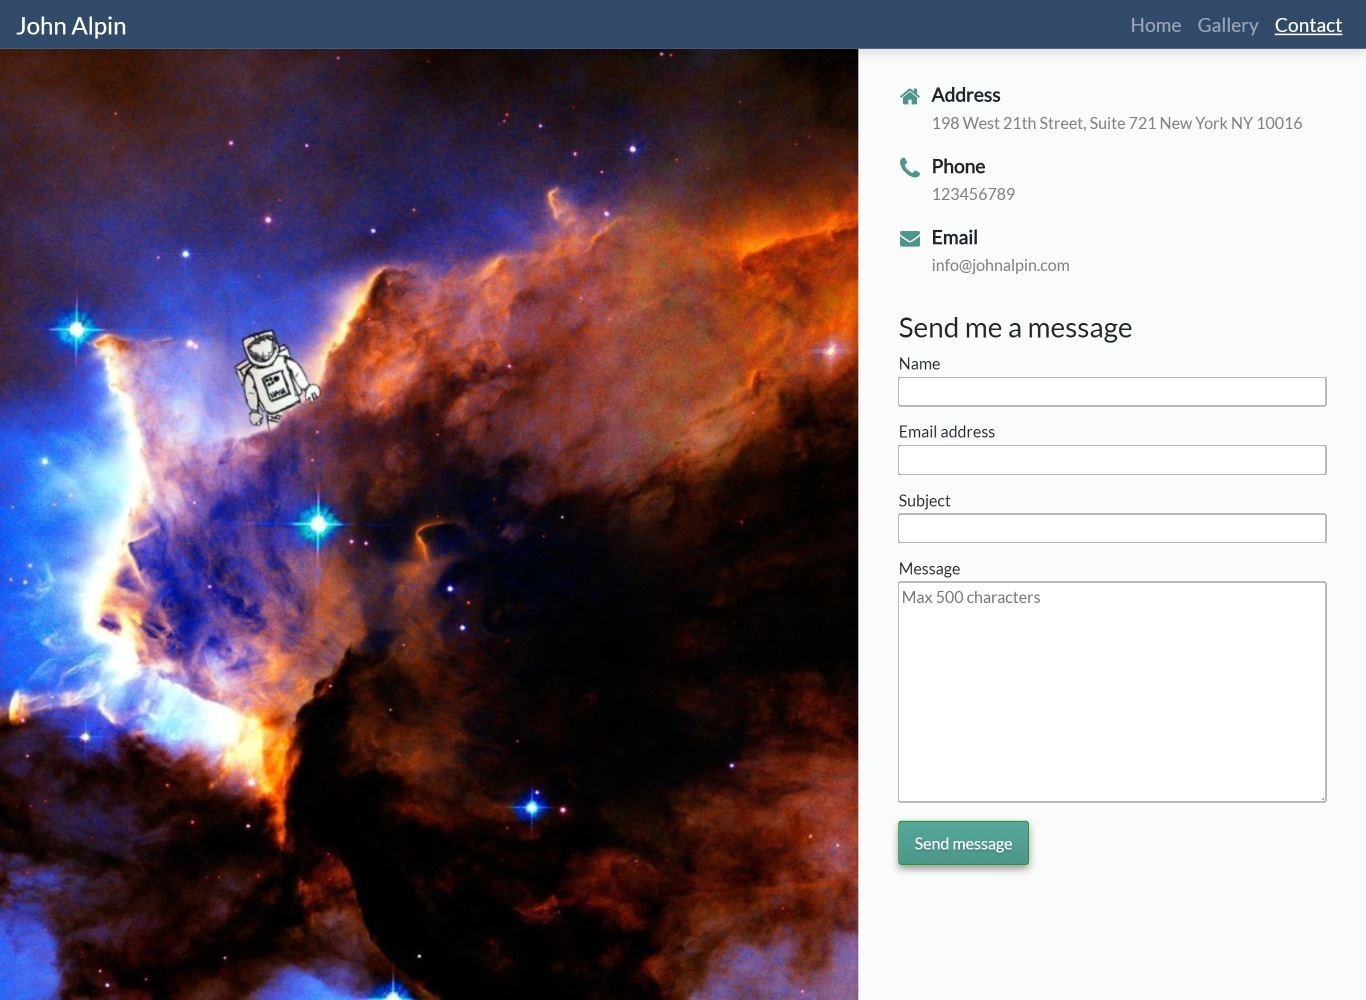
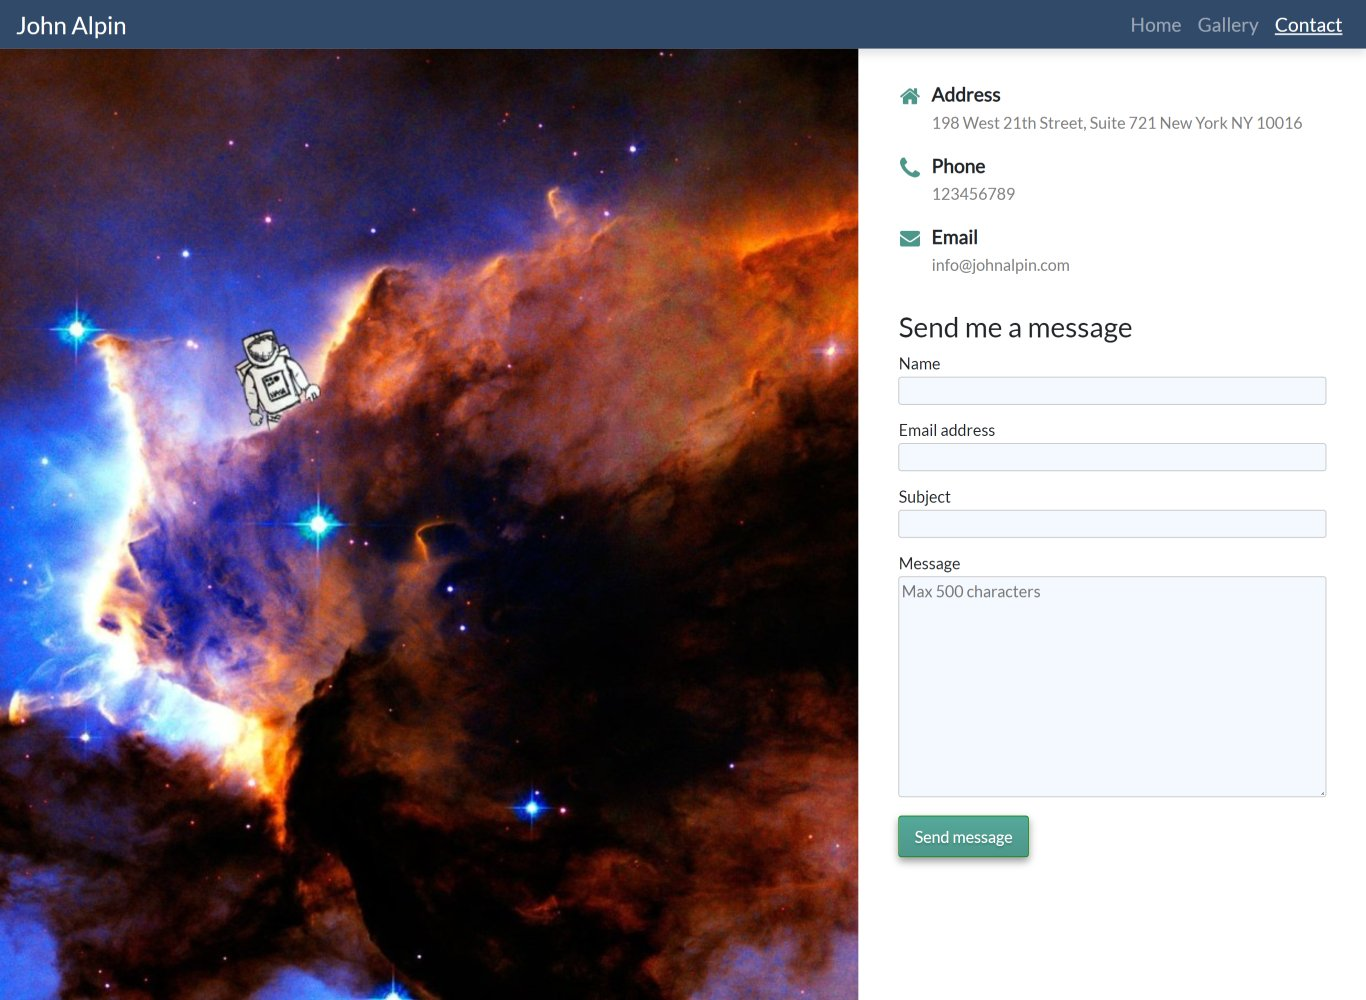
minor visual changes & update screenshots

diff --git a/homepage/css/styles.css b/homepage/css/styles.css
@@ -4,6 +4,12 @@ html {
 body {
   font-family: 'Lato', sans-serif;
 }
+a:visited {
+  color: darkmagenta;
+}
+a:focus, a:hover {
+  color: blue;
+}
 /* -------------------------------------------------------
 navigation bar
 */
@@ -25,6 +31,10 @@ appear aligned to the right side of navbar */
   flex-grow: 0;
 }
 
+.active {
+  text-decoration: underline;
+}
+
 .navbar {
   background-color: #324a69;
   box-shadow: 0px 6px 8px 0px rgba(0,0,0,.1);
@@ -33,11 +43,8 @@ appear aligned to the right side of navbar */
 }
 
 /* menu links */
-.navbar li {
+.nav-link {
   font-size: 1.2rem;
-}
-.navbar li a:hover {
-  background-color: #4d968a;
 }
 
 /* logo */
@@ -57,7 +64,7 @@ equal to the height of the navigation bar
 */
 .no-nav {
   margin-top: calc(2.8rem + 4px);
-  
+  background-color: whitesmoke;
 }
 
 /* alignment/positioning of main sections on every page:
@@ -68,7 +75,7 @@ main {
   padding-left: 40px;
   padding-right: 40px;
   padding-top: 30px;
-  background: #fafcfb;
+  background-color: white;
   box-shadow: 0px 3px 8px 0px rgba(0,0,0,.1);
 }
 
@@ -132,11 +139,5 @@ decrease font size of text in navigation bar in lower resolution screens
 @media only screen and (max-width: 35rem) {
   main {
     box-shadow: none;
-  }
-
-  /* make the background color of the non navigation part the same color
-  as the foreground */
-  .no-nav {
-    background: #fafcfb;
   }
 }

diff --git a/homepage/css/contact.css b/homepage/css/contact.css
@@ -1,16 +1,3 @@
-/* -------------------------------------------------------
-Navbar appearance when contact page is shown
-*/
-a[href="contact.html"] {
-  text-decoration: underline;
-}
-a[href="photo.html"], a[href="index.html"] {
-  color: rgba(255, 255, 255, 0.6);
-}
-/* -------------------------------------------------------
-contact info
-*/
-
 /* icons that appear to the left of the labels */
 #address-img img, #phone-img img, #email-img img {
   width: 20px;
@@ -47,6 +34,9 @@ contact form
 /* make input boxes as wide as possible */
 input[type="text"], input[type="email"], textarea {
   width: 100%;
+  background-color: #f4f8ff;
+  border-radius: 3px;
+  border: 1px solid silver;
 }
 
 /* message box should hold 500 chars (at 16px browser font size) */
@@ -59,10 +49,17 @@ input[type="submit"] {
   color: white;
   border: 1px solid green;
   border-radius: 3px;
-  padding: 9px 15px;
+  padding: 8px 15px;
   box-shadow: 0 4px 8px rgba(0, 0, 0, 0.4);
   text-shadow: 0 2px 2px rgba(0, 0, 0, 0.2);
   background: linear-gradient(to bottom, #54a89a, #4d968a);
+  transform: scale(1);
+  transition: transform 250ms;
+}
+
+input[type="submit"]:hover, input[type="submit"]:focus {
+  transform: scale(1.05);
+  color: white;
 }
 
 /* button press effect */

diff --git a/homepage/css/index.css b/homepage/css/index.css
@@ -1,16 +1,3 @@
-/* -------------------------------------------------------
-Navbar appearance when home page is shown
-*/
-.nav-link[href="index.html"] {
-  text-decoration: underline;
-}
-a[href="photo.html"], a[href="contact.html"] {
-  color: rgba(255, 255, 255, 0.6);
-}
-/* -------------------------------------------------------
-Greetings section
-*/
-
 /* face photo */
 #landing img {
   width: 12rem;

diff --git a/homepage/css/photo.css b/homepage/css/photo.css
@@ -1,16 +1,3 @@
-/* -------------------------------------------------------
-Navbar appearance when gallery page is shown
-*/
-a[href="photo.html"] {
-  text-decoration: underline;
-}
-a[href="index.html"], a[href="contact.html"] {
-  color: rgba(255, 255, 255, 0.6);
-}
-/* -------------------------------------------------------
-gallery
-*/
-
 /* photo/video container */
 figure {
   max-width: 450px;
